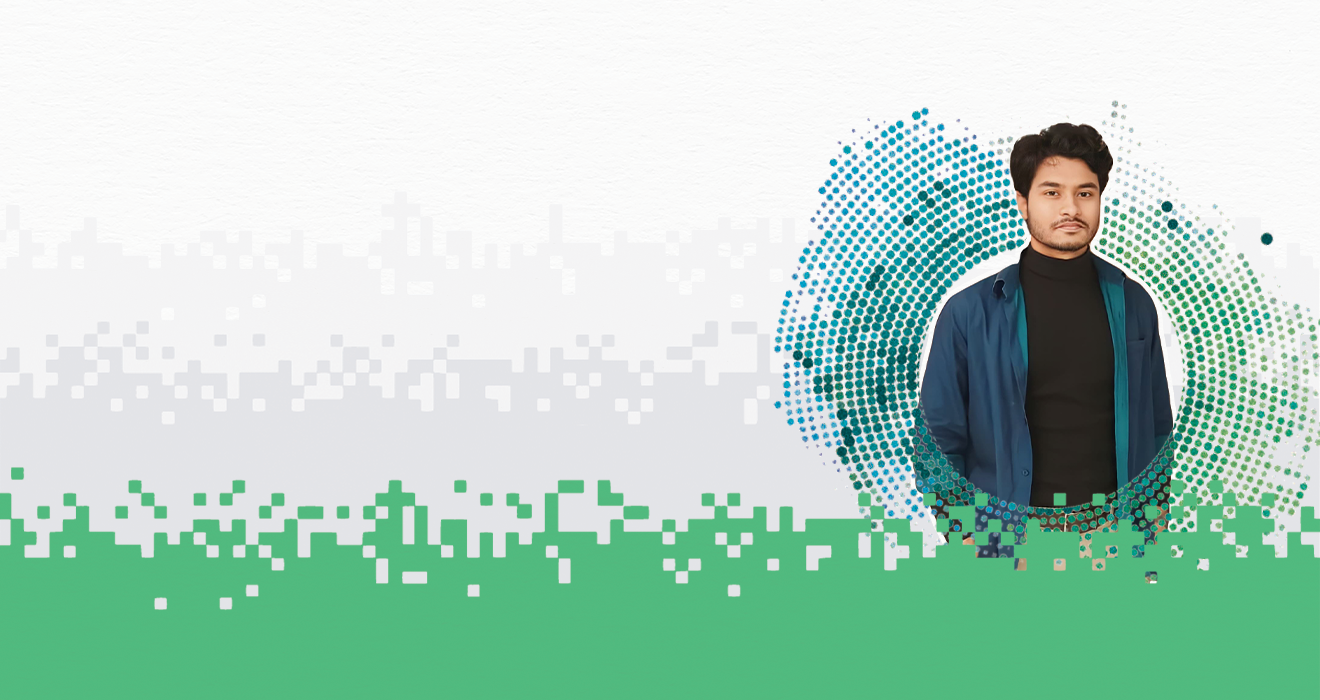
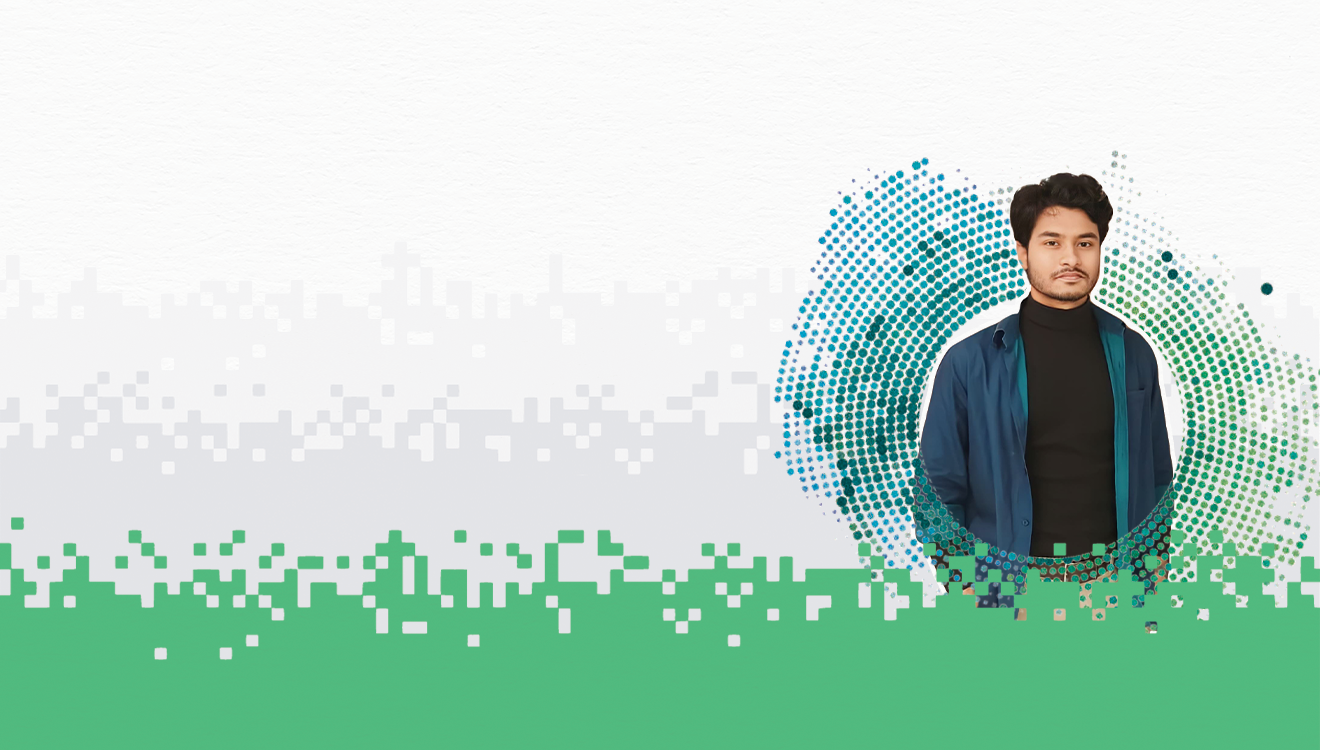
changed bg

Changed region(s): [[0.0, 0.15, 1.0, 0.9], [0.3417, 0.84, 0.3727, 0.87]]

diff --git a/style.css b/style.css
@@ -3,7 +3,9 @@
     font-family: 'Pixelify Sans';
     --accent1: #1cefb3;
     --bg: #fff8f3;
-    background-image: url(images/output-onlinepngtools.png);
+    background-image: url(images/design-space-paper-textured-background.jpg);
+    background-repeat: no-repeat;
+    background-attachment: fixed;
 
 }
 
@@ -42,11 +44,12 @@ body {
 /* Header =============================*/
 
 .header {
-    margin-top: 10%; /*temp*/
-    height: 700px;
+    margin-top: 7%;
+    /*temp*/
+    height: 750px;
     background-image: url(images/header_bg.png);
     border-radius: 10px;
-    box-shadow: 2px 2px 5px rgba(0, 0, 0, 0.447);
+    box-shadow: 2px 3px 5px rgba(0, 0, 0, 0.447);
 }
 
 nav {
@@ -93,7 +96,8 @@ nav a:hover {
     font-weight: 600;
     line-height: normal;
 }
-.btn-primary a{
+
+.btn-primary a {
     text-decoration: none;
     color: var(--White-Color, #FFF);
     font-size: 20px;
@@ -113,7 +117,7 @@ nav a:hover {
 
 .banner {
     width: 600px;
-    margin-top: 20px;
+    margin-top: 80px;
     margin-left: 54px;
 }
 
@@ -134,6 +138,7 @@ nav a:hover {
     font-weight: 700;
     line-height: normal;
 }
-.bnr-dscrp{
+
+.bnr-dscrp {
     margin: 0px auto 30px;
 }

diff --git a/index.html b/index.html
@@ -38,7 +38,7 @@
             </div>
         </div>
     </header>
-
+    
     <!-- <main>
         <section class="about">
             <h3 class="sec-title">About me</h3>
